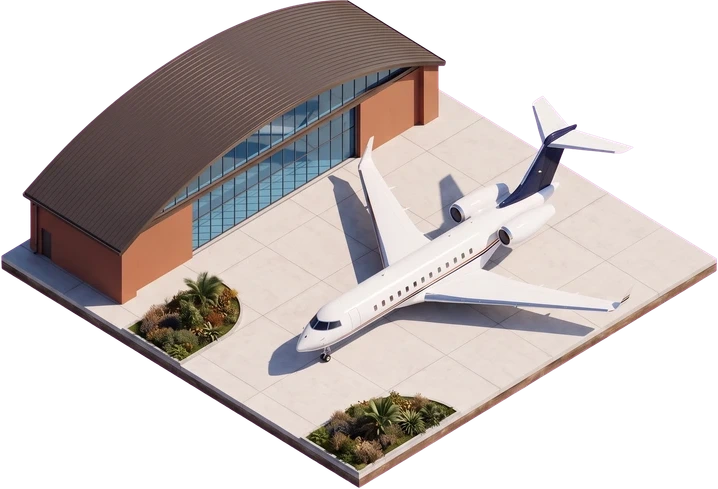
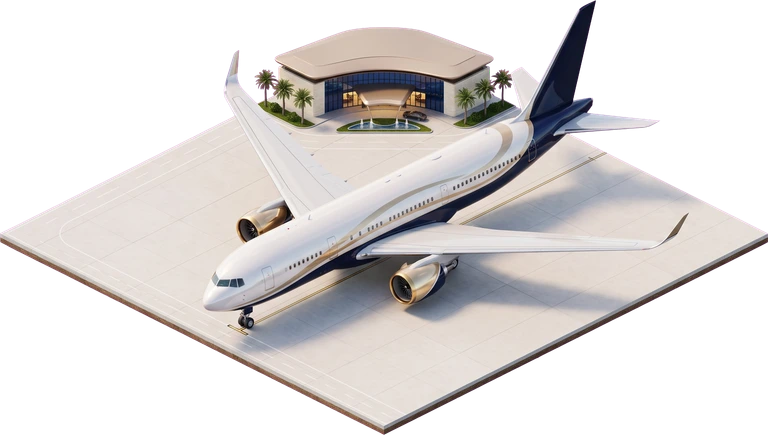
Deploy grand VIP jet and upgraded launch site

diff --git a/city/i18n-ko.js b/city/i18n-ko.js
@@ -1486,7 +1486,7 @@ export default {
 "<section class=\"side-section chapter-section\"><h3>CHAPTER {0} · {1} <span>✦</span></h3><div class=\"meter milestone\"><i style=\"width:{2}%\"></i></div><p class=\"help\">{3}</p><button class=\"portfolio-link\" data-action=\"legacy\">Reputation · Giving · Legacy score →</button></section>":"<section class=\"side-section chapter-section\"><h3>CHAPTER {0} · {1} <span>✦</span></h3><div class=\"meter milestone\"><i style=\"width:{2}%\"></i></div><p class=\"help\">{3}</p><button class=\"portfolio-link\" data-action=\"legacy\">명성 · 기부 · 레거시 점수 →</button></section>",
 "{0} to chapter ‘{1}’ · unlocks {2}":"다음 챕터 ‘{1}’까지 {0} · {2} 해금",
 "Final chapter · complete your legacy":"마지막 챕터 · 레거시를 완성하세요",
-"<span class=\"eyebrow\">REPUTATION &amp; LEGACY</span><h2>The money is made. Now leave a name.</h2><p>Lifestyle reputation fades 3% a month; parties, collections and landmark buildings refill it. Reputation from giving and interviews stays. Beyond title perks, reputation sets your hotel, resort and building revenue premium (up to +20%), auction access, and recovery when a venture fails.</p><section class=\"owner-reputation\"><span>My reputation</span><h3>{0} · {1}</h3><p>Lifestyle {2} · Owner & social {3} · Revenue premium +{4}%</p><p>{5}</p></section><div class=\"legacy-actions\"><section><h3>♡ Giving · Interviews</h3><p>Community giving earns 1 reputation per ₲1,000 donated; a press interview once a month gives +20.</p><button data-action=\"reputation\">Giving · Interviews · Titles</button></section><section><h3>✦ {6} Foundation</h3><p>{7}</p><button data-action=\"found\" {8}>{9}</button></section></div><h3>Legacy score preview · {10} pts · Grade {11}</h3><div class=\"legacy-score\">{12}</div><p class=\"help\">The ending opens in year 10 (month 120) or at a peak net worth of ₲300,000,000, and you can keep playing after. Grades: S 4,500 · A 3,000 · B 1,800.</p>":"<span class=\"eyebrow\">REPUTATION &amp; LEGACY</span><h2>돈은 벌었고, 이름은 남길 차례.</h2><p>라이프 명성은 매달 3%씩 잊히고, 파티·컬렉션·상징 건물이 다시 채웁니다. 기부와 인터뷰로 얻은 명성은 남습니다. 명성은 칭호 혜택에 더해 호텔·리조트·빌딩 매출 프리미엄(최대 +20%)과 경매 참가 자격, 벤처 실패 시 회수를 결정합니다.</p><section class=\"owner-reputation\"><span>나의 명성</span><h3>{0} · {1}</h3><p>라이프 명성 {2} · 오너·사회 명성 {3} · 매출 프리미엄 +{4}%</p><p>{5}</p></section><div class=\"legacy-actions\"><section><h3>♡ 기부 · 인터뷰</h3><p>지역사회 기부는 누적 ₲1,000당 명성 1점, 언론 인터뷰는 월 1회 명성 +20.</p><button data-action=\"reputation\">기부 · 인터뷰 · 칭호 보기</button></section><section><h3>✦ {6} 재단</h3><p>{7}</p><button data-action=\"found\" {8}>{9}</button></section></div><h3>레거시 점수 미리보기 · {10}점 · {11}등급</h3><div class=\"legacy-score\">{12}</div><p class=\"help\">엔딩은 10년째(120개월) 또는 최고 순자산 ₲300,000,000에서 열리며, 이후에도 계속 플레이할 수 있습니다. 등급: S 4,500 · A 3,000 · B 1,800.</p>",
+"<span class=\"eyebrow\">REPUTATION &amp; LEGACY</span><h2>The money is made. Now leave a name.</h2><p>Lifestyle reputation fades 3% a month; parties, collections and landmark buildings refill it. Reputation from giving and interviews stays. Beyond title perks, reputation sets your hotel, resort and building revenue premium (up to +20%), auction access, and recovery when a venture fails.</p><section class=\"owner-reputation\"><span>My reputation</span><h3>{0} · {1}</h3><p>Lifestyle {2} · Owner & social {3} · Revenue premium +{4}%</p><p>{5}</p></section><div class=\"legacy-actions\"><section><h3>♡ Giving · Interviews</h3><p>Community giving earns 1 reputation per ₲1,000 up to ₲100,000 donated in total, then gradually less; a press interview once a month gives +20.</p><button data-action=\"reputation\">Giving · Interviews · Titles</button></section><section><h3>✦ {6} Foundation</h3><p>{7}</p><button data-action=\"found\" {8}>{9}</button></section></div><h3>Legacy score preview · {10} pts · Grade {11}</h3><div class=\"legacy-score\">{12}</div><p class=\"help\">The ending opens in year 10 (month 120) or at a peak net worth of ₲300,000,000, and you can keep playing after. Grades: S 4,500 · A 3,000 · B 1,800.</p>":"<span class=\"eyebrow\">REPUTATION &amp; LEGACY</span><h2>돈은 벌었고, 이름은 남길 차례.</h2><p>라이프 명성은 매달 3%씩 잊히고, 파티·컬렉션·상징 건물이 다시 채웁니다. 기부와 인터뷰로 얻은 명성은 남습니다. 명성은 칭호 혜택에 더해 호텔·리조트·빌딩 매출 프리미엄(최대 +20%)과 경매 참가 자격, 벤처 실패 시 회수를 결정합니다.</p><section class=\"owner-reputation\"><span>나의 명성</span><h3>{0} · {1}</h3><p>라이프 명성 {2} · 오너·사회 명성 {3} · 매출 프리미엄 +{4}%</p><p>{5}</p></section><div class=\"legacy-actions\"><section><h3>♡ 기부 · 인터뷰</h3><p>지역사회 기부는 누적 ₲100,000까지 ₲1,000당 명성 1점, 이후에는 증가폭이 점차 줄어듭니다. 언론 인터뷰는 월 1회 명성 +20.</p><button data-action=\"reputation\">기부 · 인터뷰 · 칭호 보기</button></section><section><h3>✦ {6} 재단</h3><p>{7}</p><button data-action=\"found\" {8}>{9}</button></section></div><h3>레거시 점수 미리보기 · {10}점 · {11}등급</h3><div class=\"legacy-score\">{12}</div><p class=\"help\">엔딩은 10년째(120개월) 또는 최고 순자산 ₲300,000,000에서 열리며, 이후에도 계속 플레이할 수 있습니다. 등급: S 4,500 · A 3,000 · B 1,800.</p>",
 "{0} pts to the next title ‘{1}’":"다음 칭호 ‘{1}’까지 {0}점",
 "Highest title reached":"최고 칭호 달성",
 "Founded in month {0} · endowment {1}":"설립 {0}개월 차 · 출연금 {1}",
@@ -1705,7 +1705,7 @@ export default {
 "This month's party held":"이번 달 파티 완료",
 "Not enough cash to host":"개최 비용 부족",
 "Host a Party":"파티 열기",
-"<section class=\"owner-reputation public-activities\"><h3>Giving & Public Life</h3><p>Total donated <b>{0}</b> · Cash on hand {1}</p><p>Donations fund community education and healthcare. Every cumulative ₲1,000 earns 1 reputation point, and the amount donated reduces your cash and net worth.</p><div class=\"button-row\">{2}</div><label class=\"field-label\" for=\"donation-amount\">Custom donation amount (₲)<input id=\"donation-amount\" type=\"number\" min=\"1000\" step=\"1\" value=\"1000\"></label><button data-action=\"donate-custom\" class=\"primary full\">Donate Entered Amount</button><h3>Press Interview</h3><p>Share your story of investing and giving. Free, once a month · Reputation +{3}</p><button data-action=\"media-interview\" class=\"full\" {4}>{5}</button></section><p class=\"help\">Big-ticket property, mansion, vehicle, yacht and art purchases: {6}. Small business acquisitions earn at least +10 pts. The same asset only counts reputation gained above its previous best, and stock trades do not qualify. Existing collections are not credited retroactively.</p>":"<section class=\"owner-reputation public-activities\"><h3>나눔과 사회 활동</h3><p>누적 기부 <b>{0}</b> · 보유 현금 {1}</p><p>기부금은 지역사회 교육·의료 지원에 사용됩니다. 누적 ₲1,000당 명성 1점이 오르며, 기부한 금액만큼 현금과 순자산이 줄어듭니다.</p><div class=\"button-row\">{2}</div><label class=\"field-label\" for=\"donation-amount\">직접 기부할 금액 (₲)<input id=\"donation-amount\" type=\"number\" min=\"1000\" step=\"1\" value=\"1000\"></label><button data-action=\"donate-custom\" class=\"primary full\">입력한 금액 기부하기</button><h3>언론 인터뷰</h3><p>투자와 나눔에 관한 이야기를 전하세요. 비용 없이 월 1회 · 명성 +{3}</p><button data-action=\"media-interview\" class=\"full\" {4}>{5}</button></section><p class=\"help\">고액 부동산·저택·차량·요트·미술품 취득: {6}. 소기업 인수는 최소 +10점입니다. 같은 자산은 최고 기록을 넘은 명성 차이만 반영하며, 주식 거래에는 적용하지 않습니다. 기존 소장품에는 소급 지급하지 않습니다.</p>",
+"<section class=\"owner-reputation public-activities\"><h3>Giving & Public Life</h3><p>Total donated <b>{0}</b> · Cash on hand {1}</p><p>Donations fund community education and healthcare. Up to ₲100,000 in total donations, every ₲1,000 earns 1 reputation point; beyond that, additional reputation gradually decreases. Splitting donations gives the same total reputation. Donations reduce your cash and net worth.</p><div class=\"button-row\">{2}</div><label class=\"field-label\" for=\"donation-amount\">Custom donation amount (₲)<input id=\"donation-amount\" type=\"number\" min=\"1000\" step=\"1\" value=\"1000\"></label><button data-action=\"donate-custom\" class=\"primary full\">Donate Entered Amount</button><h3>Press Interview</h3><p>Share your story of investing and giving. Free, once a month · Reputation +{3}</p><button data-action=\"media-interview\" class=\"full\" {4}>{5}</button></section><p class=\"help\">Big-ticket property, mansion, vehicle, yacht and art purchases: {6}. Small business acquisitions earn at least +10 pts. The same asset only counts reputation gained above its previous best, and stock trades do not qualify. Existing collections are not credited retroactively.</p>":"<section class=\"owner-reputation public-activities\"><h3>나눔과 사회 활동</h3><p>누적 기부 <b>{0}</b> · 보유 현금 {1}</p><p>기부금은 지역사회 교육·의료 지원에 사용됩니다. 누적 기부 ₲100,000까지는 ₲1,000당 명성 1점, 이후에는 추가 명성의 증가폭이 점차 줄어듭니다. 나눠 기부해도 총 명성은 같습니다. 기부한 금액만큼 현금과 순자산이 줄어듭니다.</p><div class=\"button-row\">{2}</div><label class=\"field-label\" for=\"donation-amount\">직접 기부할 금액 (₲)<input id=\"donation-amount\" type=\"number\" min=\"1000\" step=\"1\" value=\"1000\"></label><button data-action=\"donate-custom\" class=\"primary full\">입력한 금액 기부하기</button><h3>언론 인터뷰</h3><p>투자와 나눔에 관한 이야기를 전하세요. 비용 없이 월 1회 · 명성 +{3}</p><button data-action=\"media-interview\" class=\"full\" {4}>{5}</button></section><p class=\"help\">고액 부동산·저택·차량·요트·미술품 취득: {6}. 소기업 인수는 최소 +10점입니다. 같은 자산은 최고 기록을 넘은 명성 차이만 반영하며, 주식 거래에는 적용하지 않습니다. 기존 소장품에는 소급 지급하지 않습니다.</p>",
 "<button data-donate=\"{0}\" {1}>Donate {2} · +{3} pts</button>":"<button data-donate=\"{0}\" {1}>{2} 기부 · +{3}점</button>",
 "Interview done this month":"이번 달 인터뷰 완료",
 "Give a Press Interview":"언론 인터뷰 참여하기",

diff --git a/city/legacy.js b/city/legacy.js
@@ -71,7 +71,7 @@ export function chapterCard(s,a){
 }
 export function legacyDialog(s,a){
  const r=reputationSummary(s),score=legacyScore(s,a),c=chapterOf(s),endowment=foundationQuote(s,a.wealth);
- return L`<span class="eyebrow">REPUTATION &amp; LEGACY</span><h2>The money is made. Now leave a name.</h2><p>Lifestyle reputation fades 3% a month; parties, collections and landmark buildings refill it. Reputation from giving and interviews stays. Beyond title perks, reputation sets your hotel, resort and building revenue premium (up to +20%), auction access, and recovery when a venture fails.</p><section class="owner-reputation"><span>My reputation</span><h3>${Math.round(r.fame).toLocaleString('en-US')} · ${r.tier.name}</h3><p>Lifestyle ${Math.round(s.prestige||0)} · Owner & social ${Math.round(r.fame-(s.prestige||0))} · Revenue premium +${Math.round(r.premium*100-100)}%</p><p>${r.next?L`${Math.ceil(r.next.min-r.fame).toLocaleString('en-US')} pts to the next title ‘${r.next.name}’`:L('Highest title reached')}</p></section><div class="legacy-actions"><section><h3>♡ Giving · Interviews</h3><p>Community giving earns 1 reputation per ₲1,000 donated; a press interview once a month gives +20.</p><button data-action="reputation">Giving · Interviews · Titles</button></section><section><h3>✦ ${esc(s.name)} Foundation</h3><p>${s.foundation?L`Founded in month ${s.foundation.month} · endowment ${money(s.foundation.endowment)}`:L`5% of net worth (min ₲5,000,000 · now ${money(endowment)}) · Reputation +100 · Legacy 400 pts`}</p><button data-action="found" ${s.foundation||c.n<4||s.money<endowment?'disabled':''}>${s.foundation?L('Founded'):c.n<4?L('Unlocks in Legacy chapter'):s.money<endowment?L('Not enough cash'):L('Found a foundation')}</button></section></div><h3>Legacy score preview · ${score.total.toLocaleString('en-US')} pts · Grade ${score.grade}</h3><div class="legacy-score">${score.parts.map(p=>`<div><span>${p.name}</span><b>${p.value.toLocaleString('en-US')}</b><small>${p.note}</small></div>`).join('')}</div><p class="help">The ending opens in year 10 (month 120) or at a peak net worth of ₲300,000,000, and you can keep playing after. Grades: S 4,500 · A 3,000 · B 1,800.</p>`;
+ return L`<span class="eyebrow">REPUTATION &amp; LEGACY</span><h2>The money is made. Now leave a name.</h2><p>Lifestyle reputation fades 3% a month; parties, collections and landmark buildings refill it. Reputation from giving and interviews stays. Beyond title perks, reputation sets your hotel, resort and building revenue premium (up to +20%), auction access, and recovery when a venture fails.</p><section class="owner-reputation"><span>My reputation</span><h3>${Math.round(r.fame).toLocaleString('en-US')} · ${r.tier.name}</h3><p>Lifestyle ${Math.round(s.prestige||0)} · Owner & social ${Math.round(r.fame-(s.prestige||0))} · Revenue premium +${Math.round(r.premium*100-100)}%</p><p>${r.next?L`${Math.ceil(r.next.min-r.fame).toLocaleString('en-US')} pts to the next title ‘${r.next.name}’`:L('Highest title reached')}</p></section><div class="legacy-actions"><section><h3>♡ Giving · Interviews</h3><p>Community giving earns 1 reputation per ₲1,000 up to ₲100,000 donated in total, then gradually less; a press interview once a month gives +20.</p><button data-action="reputation">Giving · Interviews · Titles</button></section><section><h3>✦ ${esc(s.name)} Foundation</h3><p>${s.foundation?L`Founded in month ${s.foundation.month} · endowment ${money(s.foundation.endowment)}`:L`5% of net worth (min ₲5,000,000 · now ${money(endowment)}) · Reputation +100 · Legacy 400 pts`}</p><button data-action="found" ${s.foundation||c.n<4||s.money<endowment?'disabled':''}>${s.foundation?L('Founded'):c.n<4?L('Unlocks in Legacy chapter'):s.money<endowment?L('Not enough cash'):L('Found a foundation')}</button></section></div><h3>Legacy score preview · ${score.total.toLocaleString('en-US')} pts · Grade ${score.grade}</h3><div class="legacy-score">${score.parts.map(p=>`<div><span>${p.name}</span><b>${p.value.toLocaleString('en-US')}</b><small>${p.note}</small></div>`).join('')}</div><p class="help">The ending opens in year 10 (month 120) or at a peak net worth of ₲300,000,000, and you can keep playing after. Grades: S 4,500 · A 3,000 · B 1,800.</p>`;
 }
 export function endingDialog(s){
  const e=s.ending;if(!e)return'';

diff --git a/city/reputation.js b/city/reputation.js
@@ -17,12 +17,14 @@ export function awardAssetFame(s,key,cost,label,minimum=0){
  if(points<=previous)return 0;
  ensure(s).assets[key]=points;gainFame(s,points-previous,label);return points-previous;
 }
+function donationFame(total){return Math.floor(total<=100000?total/1000:100*(2*Math.sqrt(total/100000)-1));}
+function donationGain(donated,amount){return donationFame(donated+amount)-donationFame(donated);}
 export function donate(s,amount){const blocked=healthReason(s);if(blocked)return{ok:false,msg:blocked};
  if(!Number.isSafeInteger(amount)||amount<1000)return{ok:false,msg:L('Enter a whole-number donation of ₲1,000 or more.')};
  if(s.money<amount)return{ok:false,msg:L('Not enough cash to donate.')};
  const total=(s.reputation?.donated||0)+amount;
  if(!Number.isSafeInteger(total))return{ok:false,msg:L('Cumulative donation limit exceeded.')};
- const r=ensure(s),gain=Math.floor(total/1000)-Math.floor(r.donated/1000);
+ const r=ensure(s),gain=donationGain(r.donated,amount);
  s.money-=amount;r.donated=total;return gainFame(s,gain,L`Community donation ${money(amount)}`);
 }
 export function mediaInterview(s){const blocked=healthReason(s);if(blocked)return{ok:false,msg:blocked};
@@ -51,5 +53,5 @@ export function validReputation(s){
 }
 export function publicActivitiesPanel(s){
  const r=s.reputation,done=r?.lastInterview===s.month;
- return L`<section class="owner-reputation public-activities"><h3>Giving & Public Life</h3><p>Total donated <b>${money(r?.donated||0)}</b> · Cash on hand ${money(Math.round(s.money))}</p><p>Donations fund community education and healthcare. Every cumulative ₲1,000 earns 1 reputation point, and the amount donated reduces your cash and net worth.</p><div class="button-row">${DONATION_AMOUNTS.map(n=>L`<button data-donate="${n}" ${s.money<n?'disabled':''}>Donate ${money(n)} · +${n/1000} pts</button>`).join('')}</div><label class="field-label" for="donation-amount">Custom donation amount (₲)<input id="donation-amount" type="number" min="1000" step="1" value="1000"></label><button data-action="donate-custom" class="primary full">Donate Entered Amount</button><h3>Press Interview</h3><p>Share your story of investing and giving. Free, once a month · Reputation +${INTERVIEW_FAME}</p><button data-action="media-interview" class="full" ${done?'disabled':''}>${done?L('Interview done this month'):L('Give a Press Interview')}</button></section><p class="help">Big-ticket property, mansion, vehicle, yacht and art purchases: ${[...ASSET_FAME].reverse().map(t=>L`${money(t.cost)} or more: +${t.fame} pts`).join(' / ')}. Small business acquisitions earn at least +10 pts. The same asset only counts reputation gained above its previous best, and stock trades do not qualify. Existing collections are not credited retroactively.</p>`;
+ return L`<section class="owner-reputation public-activities"><h3>Giving & Public Life</h3><p>Total donated <b>${money(r?.donated||0)}</b> · Cash on hand ${money(Math.round(s.money))}</p><p>Donations fund community education and healthcare. Up to ₲100,000 in total donations, every ₲1,000 earns 1 reputation point; beyond that, additional reputation gradually decreases. Splitting donations gives the same total reputation. Donations reduce your cash and net worth.</p><div class="button-row">${DONATION_AMOUNTS.map(n=>L`<button data-donate="${n}" ${s.money<n?'disabled':''}>Donate ${money(n)} · +${donationGain(r?.donated||0,n)} pts</button>`).join('')}</div><label class="field-label" for="donation-amount">Custom donation amount (₲)<input id="donation-amount" type="number" min="1000" step="1" value="1000"></label><button data-action="donate-custom" class="primary full">Donate Entered Amount</button><h3>Press Interview</h3><p>Share your story of investing and giving. Free, once a month · Reputation +${INTERVIEW_FAME}</p><button data-action="media-interview" class="full" ${done?'disabled':''}>${done?L('Interview done this month'):L('Give a Press Interview')}</button></section><p class="help">Big-ticket property, mansion, vehicle, yacht and art purchases: ${[...ASSET_FAME].reverse().map(t=>L`${money(t.cost)} or more: +${t.fame} pts`).join(' / ')}. Small business acquisitions earn at least +10 pts. The same asset only counts reputation gained above its previous best, and stock trades do not qualify. Existing collections are not credited retroactively.</p>`;
 }

diff --git a/sw.js b/sw.js
@@ -1,6 +1,6 @@
 // Generated by node scripts/build-pwa.mjs. Do not edit sw.js directly.
 const PREFIX='super-rich-pwa-';
-const CACHE=PREFIX+'85a6454a465585ab';
+const CACHE=PREFIX+'004ff2fdc80c1ed2';
 const BASE=new URL('./',self.location.href);
 const ASSETS=["city/account-save.js","city/acquisitions.js","city/activity.js","city/app.js","city/art.css","city/art.js","city/asset-sale.js","city/assets/billboards/aero-delivery.svg","city/assets/billboards/bloom-coffee.svg","city/assets/billboards/luma-living.svg","city/assets/billboards/mori-market.svg","city/assets/billboards/nova-energy.svg","city/assets/billboards/orbit-mobile.svg","city/audio.js","city/auth-ui.js","city/auth.js","city/billboards.js","city/broker.js","city/building-art.js","city/careers.js","city/celebrations.css","city/celebrations.js","city/city.css","city/cloud-save.js","city/cloud-ui.js","city/cloud.css","city/collection-photos.css","city/collection-photos.js","city/compound.css","city/compound.js","city/construction.js","city/developer.js","city/economy.js","city/empire.css","city/empire.js","city/engine.js","city/events.js","city/firebase-config.js","city/flex.css","city/flex.js","city/growth.js","city/health.js","city/i18n-ko.js","city/i18n.js","city/investment.js","city/journey-ui.js","city/journey.js","city/landmark-construction.js","city/landmark-presets.js","city/landmark-ui.js","city/landmarks.css","city/landmarks.js","city/landmarks/aurora-spire.svg","city/landmarks/crescent-bay-hotel.svg","city/landmarks/sky-garden-tower.svg","city/legacy.css","city/legacy.js","city/living-costs.js","city/longevity.js","city/luxury-models.css","city/luxury-models.js","city/mansion-art.js","city/mansion-preview.js","city/mansion.css","city/mansion.js","city/map-vehicles.js","city/market-report.js","city/market.js","city/motion.js","city/new-game.js","city/offline.js","city/people-art.js","city/play-time.js","city/projects.js","city/property-art.js","city/pwa.css","city/pwa.js","city/release.css","city/release.js","city/render.js","city/reputation.js","city/reward-provider.js","city/rewards.js","city/rich-life.css","city/rich-life.js","city/rival.js","city/rng.js","city/scenery-art.js","city/shortcut.js","city/signature-growth-ui.js","city/startups.js","city/stocks.js","city/supabase-config.js","city/ultra-map.js","city/ultra-placement.js","city/ultra-ui.js","city/ultra.js","city/vehicle-art.js","city/venture.js","city/world-life.js","icons/apple-touch-icon.png","icons/icon-192.png","icons/icon-512.png","icons/icon-maskable-512.png","icons/icon.svg","index.html","manifest.webmanifest"].map(file=>new URL(file,BASE).href);
 const SHELL=new Set(ASSETS);
